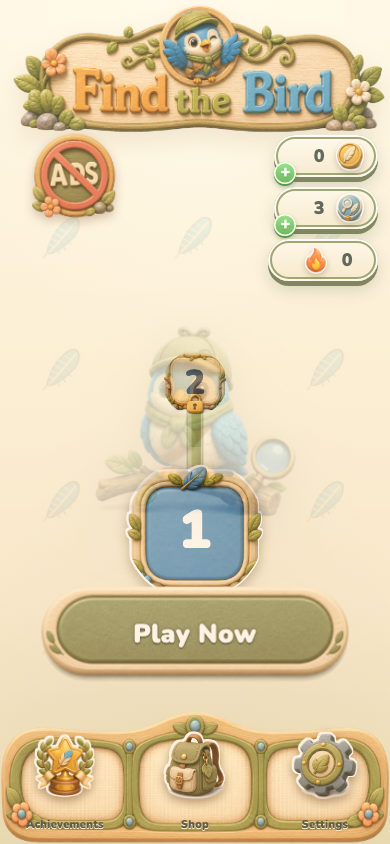
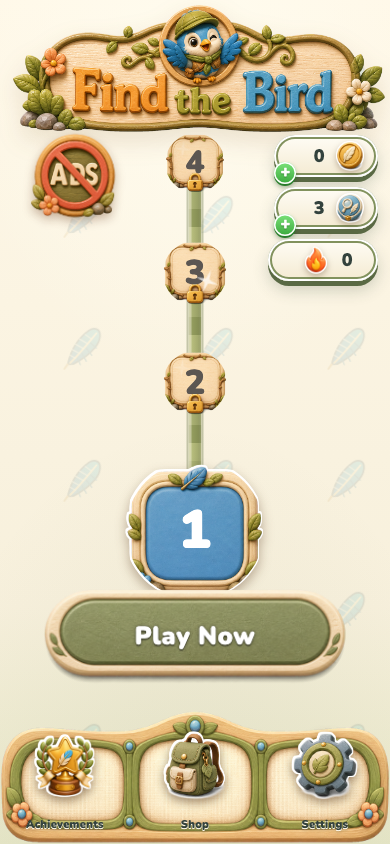
docs(ftb): refresh clean Portal candidate evidence

diff --git a/docs/evidence/2026-08-06-find-the-bird-portal-candidate/evidence.md b/docs/evidence/2026-08-06-find-the-bird-portal-candidate/evidence.md
@@ -9,111 +9,117 @@ mode: pipeline
 
 ## Verdict
 
-Blocked before publication. The selective native bundle, signed harness-free
-Release app, and nested Portal web preview are coherent at source revision
-`8d98445d0a633fc8ff4a7a8c66223dc1cb213c36`. The release cannot honestly become
-a Portal entry yet because the two current canonical campaign scenes contain
-visible QA labels and the required physical iPhone is offline. Portal was left
-unchanged.
+Blocked only at the physical-device publication gate. The clean 53-level
+campaign, selective five-starter native bundle, live Bird CDN, signed
+harness-free Release app, and nested Portal browser preview are coherent at
+source revision `efb1ed977f85af3a923827137d792ea817d7e15d`. Portal was left
+unchanged because the paired iPhone is unavailable and the exact build therefore
+has no physical-device gameplay video or derived release poster.
 
 ## What Works
 
-- The native bundle copies only manifest-authorized level assets, rewrites its
-  catalog metadata to the exact packaged bytes, and rejects missing or stale
-  assets.
-- The signed Release app has bundle id `com.baseardahan.hiddenobj`, marketing
+- All five starter packages are committed and manifest-authorized. The native
+  bundle contains only those five level directories and rewrites catalog
+  authority to the exact packaged bytes.
+- The runtime defaults to the dedicated Find the Bird worker. Its live revision
+  3 manifest has the same 53-level order and five-starter prefix as the repo.
+- The signed Release app uses bundle id `com.basegamelab.findthebird`, marketing
   version `1.0`, build `1`, no `CAPACITOR_DEBUG`, and passes strict `codesign`
   verification.
-- The public web zip contains 199 files, excludes source maps, stays under
-  Portal's current limit, and loads at Portal's nested build path after the real
-  extraction/rewrite lane.
-- The first-release description and changelog basis are factual. No previous
-  Find the Bird record exists in the live Portal database.
+- Portal's real zip extraction and nested-path rewrite changed three files and
+  left zero unresolved owned references. Home and gameplay rendered at 390x844
+  with no failed responses, page errors, or horizontal overflow.
+- The first-release description and changelog basis are factual. The live Portal
+  database still has no `find-the-bird` game or build row.
 
-## Publication Blockers
+## Defects Resolved
 
-1. The repository's current campaign authority requires
-   `ad_campaigns_ad_autumn_forest_bird_native2k` and
-   `ad_campaigns_ad_autumn_forest_bird_poststretch2`. Their scene images visibly
-   contain the labels `CANONICAL ... native-2k + lite cutouts` and
-   `MAGENTA SQUARE-SEND ... (the fix)`. The browser preview shows the clipped
-   label at the gameplay edge. Substituting older clean levels would violate the
-   explicit canonical-only policy in `five-square-campaign.test.ts`.
-2. `Batu's iPhone` (iPhone 12) is reported unavailable by CoreDevice and offline
-   by `xctrace`. The exact harness-free app therefore has no installed-build
-   identity or physical-device gameplay capture.
-3. The existing browser video and poster are diagnostic-only and cannot satisfy
-   the production capture gate. The release workflow now encodes this rule.
+1. Four of the five declared bundled starters were missing from Git. Their exact
+   runtime files were recovered from a previously signed production archive,
+   visually inspected, committed, and revalidated against every manifest hash
+   and byte size.
+2. Find the Bird inherited Find the Dog's default CDN origin. A failing
+   regression test demonstrated the cross-game route, and the fallback now uses
+   `ftb-level-origin.batuaytemiz.workers.dev`.
+3. The old candidate's two QA-labeled scenes are no longer campaign starters.
+   The current five clean starter scenes replace that obsolete blocker.
+4. Native catalog snapshots previously retained source-tree bundle flags and
+   package metadata. The selective build now reconciles them with exactly what
+   ships.
+
+## Verification
+
+- Find the Bird unit suite: 44 files, 285 tests passed.
+- TypeScript and focused ESLint over every changed TypeScript file: passed.
+  Repository-wide ESLint remains red on three unchanged baseline violations.
+- Live CDN: manifest HTTP 200; 53 ordered levels; 61 sampled assets across a
+  starter, streamed level, and final level matched declared hashes and sizes.
+- iOS environment validation, Vite build, Capacitor sync, Release Xcode build,
+  build provenance, strict signature verification, and artifact hashing: passed.
+- Human inspection: all four recovered starter paintings plus the current nested
+  Portal home and gameplay screens were inspected.
+
+## Publication Blocker
+
+`Batu's iPhone` (iPhone 12) remains paired but its CoreDevice tunnel is
+`unavailable`; the last recorded connection is 2026-08-01. Installing the exact
+Release app returned CoreDevice error 1011 because the device could not be
+located. Browser screenshots are diagnostic evidence only. They cannot be
+promoted to the required production gameplay video or release poster.
 
 ## Evidence Artifacts
 
 - [`release-manifest.json`](release-manifest.json) records source, commands,
-  hashes, identities, classifications, live query state, and exact gates.
+  hashes, identities, live CDN checks, and the remaining gate.
 - [`assets/portal-preview-home.png`](assets/portal-preview-home.png) shows the
-  rewritten nested Portal preview home screen.
+  current rewritten nested Portal preview home screen.
 - [`assets/portal-preview-gameplay.png`](assets/portal-preview-gameplay.png)
-  shows actual gameplay through that preview.
-- [`assets/canonical-level-qa-label.png`](assets/canonical-level-qa-label.png)
-  isolates the clipped baked label visible during gameplay.
-- The full source images remain at
-  `games/find_the_bird/public/levels/ad_campaigns_ad_autumn_forest_bird_native2k/color.webp`
-  and
-  `games/find_the_bird/public/levels/ad_campaigns_ad_autumn_forest_bird_poststretch2/color.webp`.
-
-## Verification
-
-- Find the Bird unit suite: 43 files, 277 tests passed.
-- TypeScript: `npm run typecheck` passed.
-- Focused ESLint over every changed TypeScript file: passed.
-- iOS environment validation, Vite build, Capacitor sync, Release Xcode build,
-  and strict signature verification: passed.
-- Portal nested preview: 390x844 viewport, no horizontal overflow, and no local
-  asset failures after the Portal rewrite fix.
-- Human inspection: home, gameplay, both canonical source scenes, release app
-  identity, and evidence screenshots inspected.
+  shows current gameplay through the same preview.
+- Candidate native and web archives are under
+  `/private/tmp/ftb-portal-candidate-efb1ed97/`. They are not publication
+  artifacts until the exact physical-device gate passes.
 
 ## Next Action
 
-Regenerate the two canonical scenes without QA labels through the current
-canonical editor pipeline. Then rebuild before reconnecting the iPhone; the
-existing artifacts must not be published or reused as release evidence.
+Connect and unlock Batu's iPhone by cable. Rebuild from the eventual merged
+revision, install that exact harness-free app, capture normal-speed gameplay,
+derive the poster, then publish and verify the immutable Portal entry.
 
 ```json
 {
   "skill": "ce-evidence",
   "status": "blocked",
   "artifact_path": "docs/evidence/2026-08-06-find-the-bird-portal-candidate/evidence.md",
-  "verdict": "The coherent local candidate is blocked before Portal publication by visibly labeled canonical levels and missing exact-build physical-device capture.",
+  "verdict": "The clean candidate passes source, build, CDN, and nested-browser gates; Portal publication is blocked only by missing exact-build physical-device capture.",
   "mode": "pipeline",
   "evidence": [
     {
       "type": "manifest",
       "label": "sanitized release manifest",
-      "result": "candidate fields complete; publication_state blocked",
+      "result": "candidate fields complete; publication_state blocked on device capture",
       "path": "docs/evidence/2026-08-06-find-the-bird-portal-candidate/release-manifest.json",
       "url": null
     },
     {
       "type": "test",
       "label": "Find the Bird unit suite",
-      "result": "passed: 277 tests in 43 files",
+      "result": "passed: 285 tests in 44 files",
       "path": null,
       "url": null
     },
     {
       "type": "rendered-preview",
       "label": "Portal nested browser preview",
-      "result": "loads home and gameplay without local asset failures; visible canonical QA label blocks release",
+      "result": "home and gameplay render without failed responses, page errors, unresolved owned paths, or horizontal overflow",
       "path": "docs/evidence/2026-08-06-find-the-bird-portal-candidate/assets/",
       "url": null
     }
   ],
   "reviewers": [],
   "gaps": [
-    "Canonical campaign scenes require clean regeneration.",
-    "The exact harness-free artifact has not been installed or captured on the offline physical iPhone."
+    "The exact harness-free artifact has not been installed or captured on the unavailable physical iPhone."
   ],
-  "next_action": "Regenerate clean canonical scenes, rebuild, then capture the exact artifact on the physical iPhone.",
+  "next_action": "Connect and unlock Batu's iPhone, rebuild from the merged revision, then capture and publish the exact production artifact.",
   "pr_updated": false
 }
 ```
